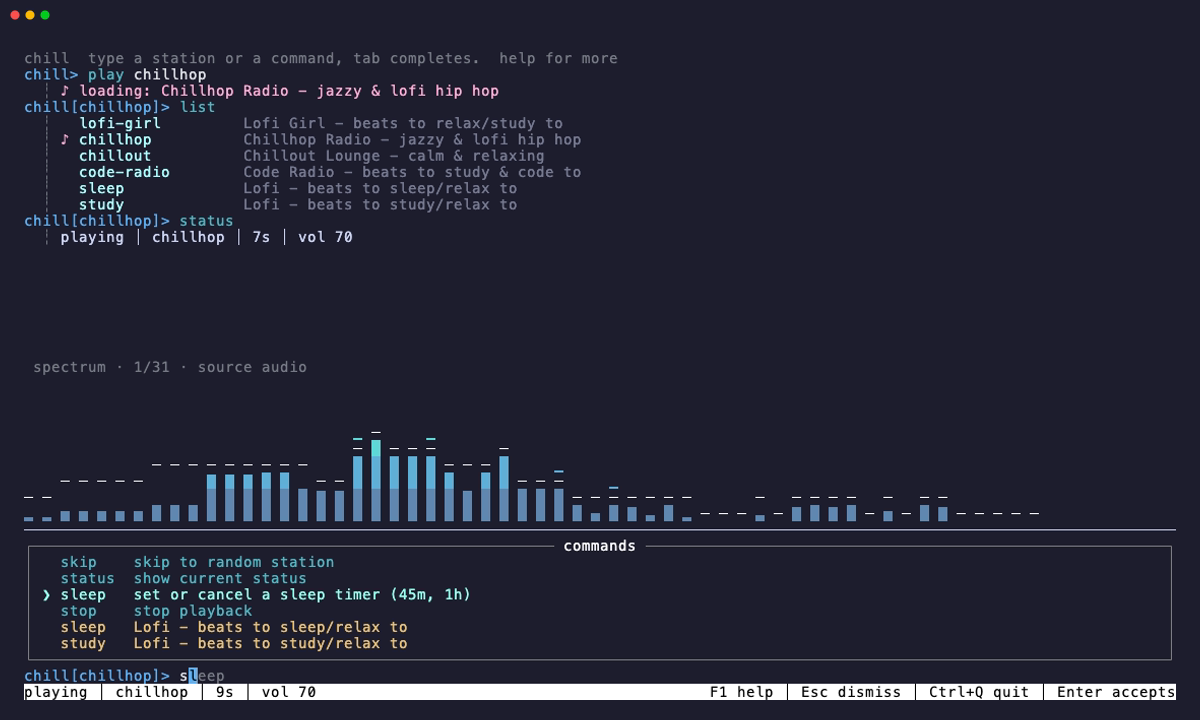
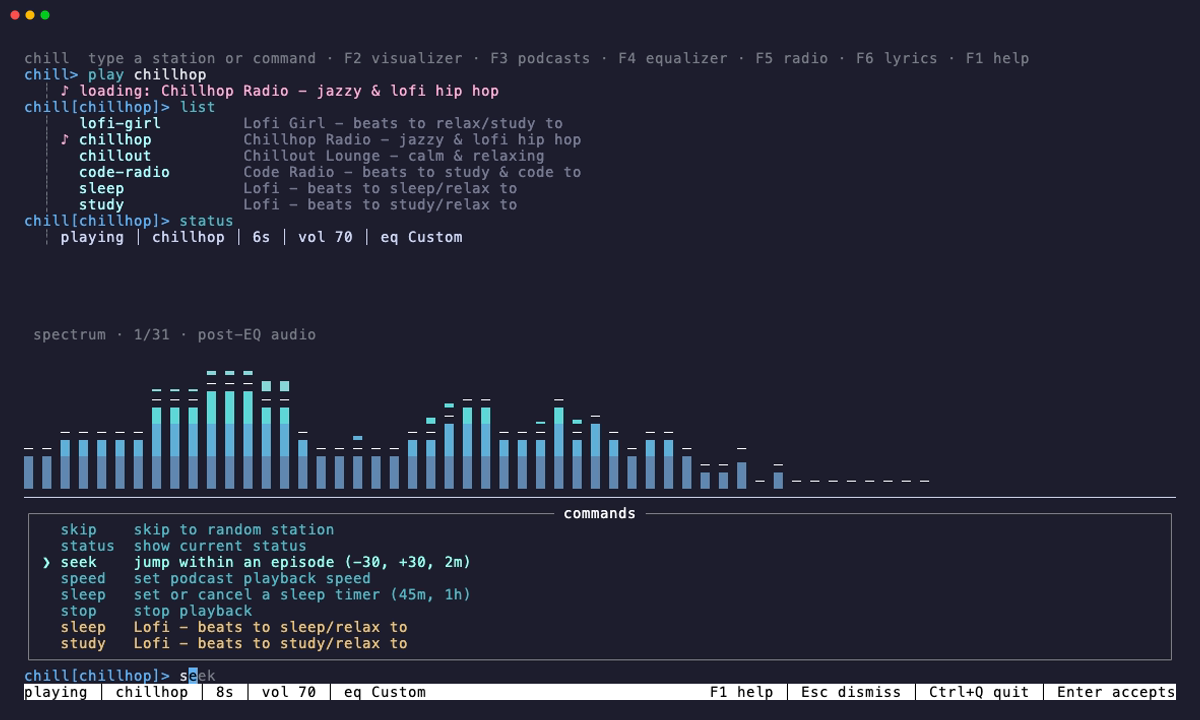
docs: refresh feature screenshots

diff --git a/vhs/fixtures/icy.go b/vhs/fixtures/icy.go
@@ -1,0 +1,234 @@
+// Command icy serves a quiet PCM stream with deterministic metadata for VHS.
+package main
+
+import (
+	"context"
+	"encoding/binary"
+	"fmt"
+	"io"
+	"log"
+	"math"
+	"net/http"
+	"os"
+	"os/exec"
+	"path/filepath"
+	"strings"
+	"time"
+)
+
+const (
+	address     = "127.0.0.1:18765"
+	sampleRate  = 48_000
+	channels    = 2
+	sampleWidth = 2
+	interval    = 32_768
+	streamTitle = "StreamTitle='Traditional - Auld Lang Syne';"
+	healthText  = "chill-vhs-icy"
+)
+
+var (
+	header   = wavHeader()
+	samples  = tone()
+	metadata = icyMetadata()
+)
+
+func wavHeader() []byte {
+	result := make([]byte, 44)
+	copy(result[0:4], "RIFF")
+	binary.LittleEndian.PutUint32(result[4:8], 0x7fffffff)
+	copy(result[8:12], "WAVE")
+	copy(result[12:16], "fmt ")
+	binary.LittleEndian.PutUint32(result[16:20], 16)
+	binary.LittleEndian.PutUint16(result[20:22], 1)
+	binary.LittleEndian.PutUint16(result[22:24], channels)
+	binary.LittleEndian.PutUint32(result[24:28], sampleRate)
+	binary.LittleEndian.PutUint32(result[28:32], sampleRate*channels*sampleWidth)
+	binary.LittleEndian.PutUint16(result[32:34], channels*sampleWidth)
+	binary.LittleEndian.PutUint16(result[34:36], sampleWidth*8)
+	copy(result[36:40], "data")
+	binary.LittleEndian.PutUint32(result[40:44], 0x7fffffff-36)
+	return result
+}
+
+func tone() []byte {
+	result := make([]byte, sampleRate*channels*sampleWidth)
+	for sample := range sampleRate {
+		value := int16(900 * math.Sin(2*math.Pi*220*float64(sample)/sampleRate))
+		offset := sample * channels * sampleWidth
+		binary.LittleEndian.PutUint16(result[offset:offset+2], uint16(value))
+		binary.LittleEndian.PutUint16(result[offset+2:offset+4], uint16(value))
+	}
+	return result
+}
+
+func icyMetadata() []byte {
+	blocks := (len(streamTitle) + 15) / 16
+	result := make([]byte, 1+blocks*16)
+	result[0] = byte(blocks)
+	copy(result[1:], streamTitle)
+	return result
+}
+
+func serveStream(w http.ResponseWriter, r *http.Request) {
+	w.Header().Set("Content-Type", "audio/wav")
+	w.Header().Set("Cache-Control", "no-store")
+	w.Header().Set("icy-metaint", "32768")
+	w.Header().Set("icy-name", "Chill Showcase")
+	w.WriteHeader(http.StatusOK)
+
+	flusher, ok := w.(http.Flusher)
+	if !ok {
+		return
+	}
+	prefix, offset := header, 0
+	delay := time.Second * time.Duration(interval) / time.Duration(sampleRate*channels*sampleWidth)
+	for {
+		chunk := make([]byte, 0, interval)
+		if len(prefix) > 0 {
+			count := min(interval, len(prefix))
+			chunk = append(chunk, prefix[:count]...)
+			prefix = prefix[count:]
+		}
+		for len(chunk) < interval {
+			count := min(interval-len(chunk), len(samples)-offset)
+			chunk = append(chunk, samples[offset:offset+count]...)
+			offset = (offset + count) % len(samples)
+		}
+		if _, err := w.Write(chunk); err != nil {
+			return
+		}
+		if _, err := w.Write(metadata); err != nil {
+			return
+		}
+		flusher.Flush()
+		select {
+		case <-r.Context().Done():
+			return
+		case <-time.After(delay):
+		}
+	}
+}
+
+func newServer() *http.Server {
+	var server *http.Server
+	mux := http.NewServeMux()
+	mux.HandleFunc("/health", func(w http.ResponseWriter, _ *http.Request) {
+		w.WriteHeader(http.StatusOK)
+		_, _ = io.WriteString(w, healthText)
+	})
+	mux.HandleFunc("/stream", serveStream)
+	mux.HandleFunc("/shutdown", func(w http.ResponseWriter, r *http.Request) {
+		if r.Method != http.MethodPost {
+			http.Error(w, "POST required", http.StatusMethodNotAllowed)
+			return
+		}
+		w.WriteHeader(http.StatusNoContent)
+		go func() {
+			time.Sleep(50 * time.Millisecond)
+			ctx, cancel := context.WithTimeout(context.Background(), 2*time.Second)
+			defer cancel()
+			_ = server.Shutdown(ctx)
+		}()
+	})
+	server = &http.Server{Addr: address, Handler: mux, ReadHeaderTimeout: 2 * time.Second}
+	return server
+}
+
+func healthy() bool {
+	client := &http.Client{Timeout: 250 * time.Millisecond}
+	response, err := client.Get("http://" + address + "/health")
+	if err != nil {
+		return false
+	}
+	defer response.Body.Close()
+	body, err := io.ReadAll(io.LimitReader(response.Body, 64))
+	return err == nil && response.StatusCode == http.StatusOK && strings.TrimSpace(string(body)) == healthText
+}
+
+func start() error {
+	if healthy() {
+		fmt.Println("fixture ready")
+		return nil
+	}
+	executable, err := os.Executable()
+	if err != nil {
+		return err
+	}
+	logFile, err := os.OpenFile(filepath.Join(os.TempDir(), "chill-vhs-icy.log"), os.O_CREATE|os.O_WRONLY|os.O_TRUNC, 0600)
+	if err != nil {
+		return err
+	}
+	command := exec.Command(executable, "serve")
+	command.Stdout, command.Stderr = logFile, logFile
+	if err := command.Start(); err != nil {
+		logFile.Close()
+		return err
+	}
+	_ = logFile.Close()
+	deadline := time.Now().Add(5 * time.Second)
+	for time.Now().Before(deadline) {
+		if healthy() {
+			_ = command.Process.Release()
+			fmt.Println("fixture ready")
+			return nil
+		}
+		time.Sleep(50 * time.Millisecond)
+	}
+	_ = command.Process.Kill()
+	return fmt.Errorf("fixture did not start; see %s", filepath.Join(os.TempDir(), "chill-vhs-icy.log"))
+}
+
+func stop() error {
+	request, err := http.NewRequest(http.MethodPost, "http://"+address+"/shutdown", nil)
+	if err != nil {
+		return err
+	}
+	client := &http.Client{Timeout: 2 * time.Second}
+	response, err := client.Do(request)
+	if err != nil {
+		if !healthy() {
+			fmt.Println("fixture stopped")
+			return nil
+		}
+		return err
+	}
+	response.Body.Close()
+	if response.StatusCode != http.StatusNoContent {
+		return fmt.Errorf("fixture returned %s", response.Status)
+	}
+	deadline := time.Now().Add(2 * time.Second)
+	for healthy() && time.Now().Before(deadline) {
+		time.Sleep(50 * time.Millisecond)
+	}
+	_ = os.Remove(filepath.Join(os.TempDir(), "chill-vhs-icy.log"))
+	fmt.Println("fixture stopped")
+	return nil
+}
+
+func run() error {
+	if len(os.Args) != 2 {
+		return fmt.Errorf("usage: go run ./vhs/fixtures <start|serve|stop>")
+	}
+	switch os.Args[1] {
+	case "start":
+		return start()
+	case "serve":
+		server := newServer()
+		err := server.ListenAndServe()
+		if err != nil && err != http.ErrServerClosed {
+			return err
+		}
+		return nil
+	case "stop":
+		return stop()
+	default:
+		return fmt.Errorf("unknown command %q", os.Args[1])
+	}
+
+}
+
+func main() {
+	if err := run(); err != nil {
+		log.Fatal(err)
+	}
+}

diff --git a/vhs/README.md b/vhs/README.md
@@ -1,11 +1,16 @@
 # Terminal recordings
 
-Run from the repository root with [VHS](https://github.com/charmbracelet/vhs) installed:
+Run from the repository root with [VHS](https://github.com/charmbracelet/vhs):
 
 ```sh
-go build
-vhs vhs/readme.tape
+go run github.com/charmbracelet/vhs@v0.11.0 vhs/readme.tape
+go run github.com/charmbracelet/vhs@v0.11.0 vhs/podcasts.tape
+go run github.com/charmbracelet/vhs@v0.11.0 vhs/features.tape
 ```
+
+The VHS version is pinned because 0.12.0 cancels FFmpeg before it writes
+screenshots. Running through Go keeps the recorder version consistent on every
+platform.
 
 `readme.tape` writes `assets/chill.png` at 1200 × 720, used by the README. It shows
 the station list, a live spectrum visualizer, and command suggestions together.
@@ -15,9 +20,14 @@ waits for live spectrum data, then stops playback after the screenshot. This
 changes the current daemon's station, and the commands it types end up in your
 REPL history. The pause before `status` gives playback a few seconds of uptime.
 
-The tape selects `./chill` on Linux/macOS, or `./chill.exe` when run from WSL
-with a Windows build.
+The tapes use `go run`, so the same sources drive captures on every supported
+platform without platform-specific scripts or binary names.
 
-`vhs vhs/podcasts.tape` captures the podcast browser in `assets/podcasts.png`.
-It opens the Tech Life feed, subscribes, plays an episode briefly, then stops.
-It also requires ffprobe, which comes with FFmpeg.
+`podcasts.tape` captures the podcast browser in `assets/podcasts.png`. It opens
+the Tech Life feed, subscribes, plays an episode briefly, then stops. It also
+requires ffprobe, which comes with FFmpeg.
+
+`features.tape` writes `assets/equalizer.png`, `assets/radio.png`, and
+`assets/lyrics.png`. It uses a quiet local stream with deterministic metadata;
+the server fixture is removed when the tape finishes. The lyrics lookup uses
+the same public service as Chill.

diff --git a/README.md b/README.md
@@ -284,7 +284,8 @@ Listening progress is saved automatically. No account or API key.
 Use `chill podcasts --help` for CLI commands, including search, feeds,
 subscriptions, and queueing. `--json` is available for scripting.
 
-![Browsing podcast episodes in Chill](assets/podcasts.png)
+See [Podcasts](docs/podcasts.md) for every browser key, command, playback rule,
+and saved-data detail.
 
 ### Visualizers
 
@@ -293,6 +294,9 @@ Press **F2** or type `viz` to open. While focused, **v** cycles modes,
 **V** toggles fullscreen, and **Enter** returns to the prompt.
 
 Use `viz led` to pick a mode, `viz list` to see them all, or `viz off` to close.
+
+See [Visualizer architecture](docs/visualizers.md) for the audio tap, rendering,
+layouts, and performance design.
 
 ## Foreground Mode
 

diff --git a/docs/now-playing.md b/docs/now-playing.md
@@ -1,5 +1,7 @@
 # Now playing
 
+![Reading lyrics for the current live track](../assets/lyrics.png)
+
 Live radio has no universal metadata channel, so Chill handles the formats used
 in practice. For direct HTTP audio it asks for ICY metadata and removes metadata
 blocks from the same connection that feeds FFmpeg. This preserves the one-stream

diff --git a/docs/radio.md b/docs/radio.md
@@ -1,5 +1,7 @@
 # Radio discovery
 
+![Browsing internet radio](../assets/radio.png)
+
 Run `chill radio`, enter `radio` in the REPL, or press F5. The browser opens on
 favorites, recently heard tracks, optional nearby suggestions, pinned views,
 four charts, countries, genres and search. Directory playback does not modify

diff --git a/docs/podcasts.md b/docs/podcasts.md
@@ -1,5 +1,7 @@
 # Podcasts
 
+![Browsing podcast episodes](../assets/podcasts.png)
+
 Run `chill podcasts`, type `podcasts` in the REPL, or press F3. The browser has
 Top Shows, Categories, Subscriptions, and Search. The top chart defaults to the
 US; `chill podcasts country gb` saves a different two-letter country code.

diff --git a/docs/visualizers.md b/docs/visualizers.md
@@ -1,5 +1,7 @@
 # REPL visualizer architecture
 
+![Live spectrum visualization in the REPL](../assets/chill.png)
+
 ## Audio ownership
 
 The daemon owns playback for the lifetime of a station. `pcmPlayer` implements

diff --git a/docs/equalizer.md b/docs/equalizer.md
@@ -1,5 +1,7 @@
 # Equalizer architecture
 
+![Editing the ten-band equalizer](../assets/equalizer.png)
+
 ## Signal path
 
 Every radio station and podcast uses the same 48 kHz stereo float32 PCM path:
